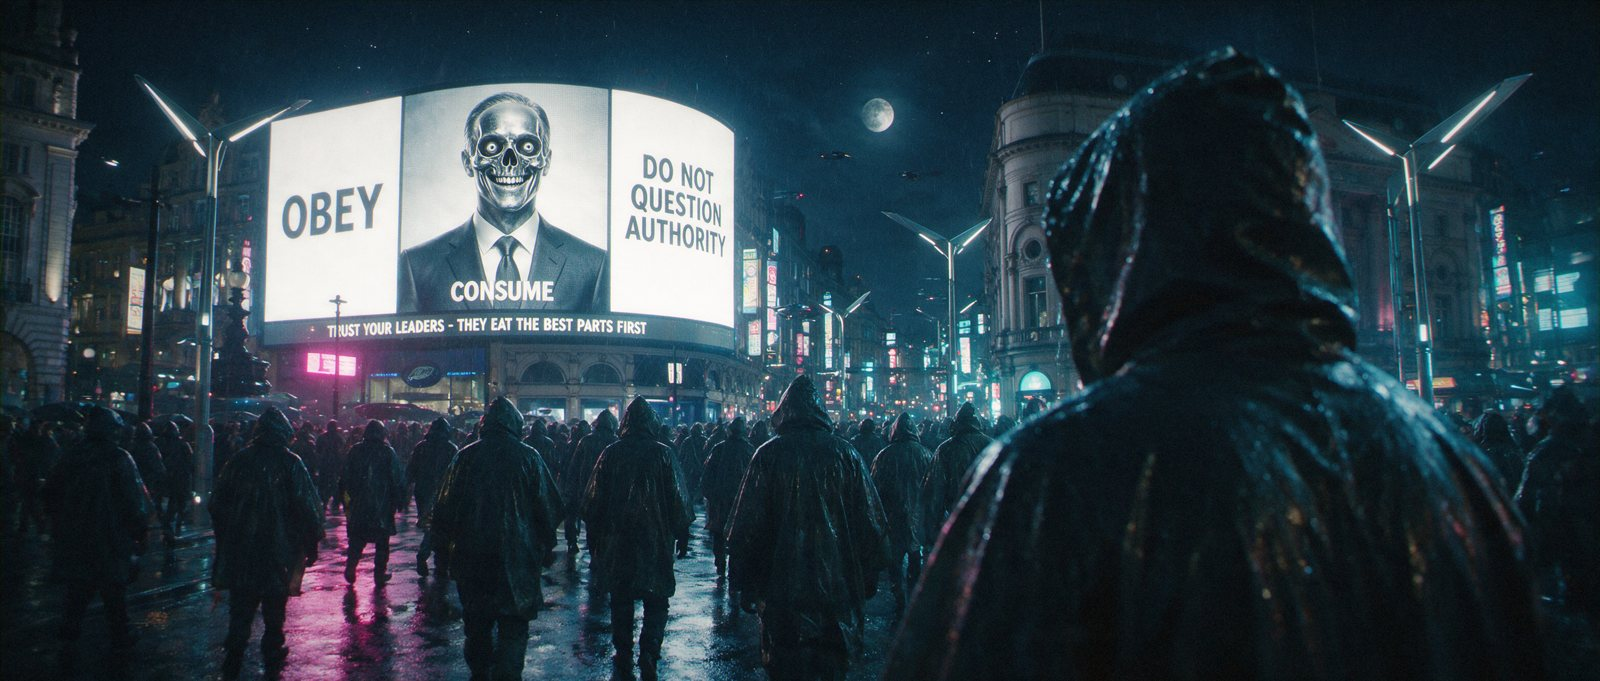
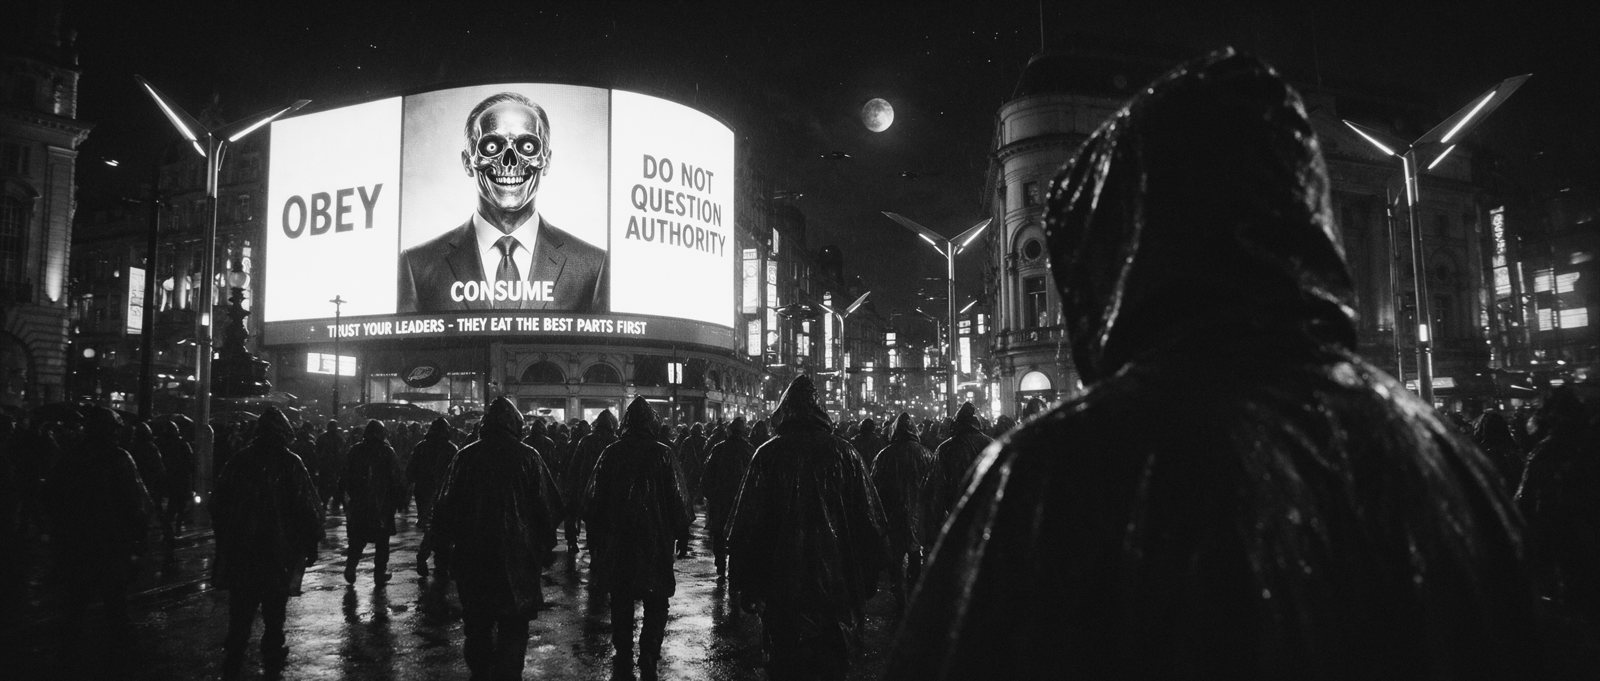
They Live: glasses-on frame in black and white

diff --git a/index.html b/index.html
@@ -466,7 +466,7 @@
     <p class="spec-note">Key frames for my own script reboot of the 1988 film. These frames come from a locked recipe: a five-block prompt structure, motivated light and a documentary grade, applied the same way to every frame so the look repeats.</p>
     <div class="grid" style="margin-bottom:28px">
       <figure><img class="wide" src="media/genai/tl-piccadilly-normal.jpg" alt="Piccadilly Circus at night in heavy rain, a hooded crowd beneath the curved advertising screens, a full moon overhead" width="1600" height="681" loading="lazy"><figcaption><span class="mono">Seedream 5.0 Pro · custom grade</span><b>Piccadilly Circus, glasses off</b><span>Real London bones with future street furniture bolted on. Each panel of the screens is specified in the prompt, and every warm patch traces back to a visible sign.</span></figcaption></figure>
-      <figure><img class="wide" src="media/genai/tl-piccadilly-glasses.jpg" alt="The same Piccadilly frame with the glasses on: the screens read OBEY, CONSUME and DO NOT QUESTION AUTHORITY, an alien face at the centre" width="1600" height="681" loading="lazy"><figcaption><span class="mono">Seedream 5.0 Pro · same street, glasses on</span><b>Piccadilly Circus, glasses on</b><span>The same street with the truth showing: the ads become the aliens' commands. The crowd, rain and lighting are held between the two frames so the switch reads instantly.</span></figcaption></figure>
+      <figure><img class="wide" src="media/genai/tl-piccadilly-glasses.jpg" alt="The same Piccadilly frame in black and white with the glasses on: the screens read OBEY, CONSUME and DO NOT QUESTION AUTHORITY, an alien face at the centre" width="1600" height="681" loading="lazy"><figcaption><span class="mono">Derived from the colour master · B&amp;W</span><b>Piccadilly Circus, glasses on</b><span>The same street with the truth showing, in stark black and white: the ads become the aliens' commands. The crowd, rain and framing are held between the two frames so the switch reads instantly.</span></figcaption></figure>
     </div>
     <div class="grid">
       <figure><img class="wide" src="media/genai/tl-glasses.jpg" alt="Product hero: dark sunglasses on a dusty table under a single shaft of light" width="1600" height="681" loading="lazy"><figcaption><span class="mono">Seedream 5.0 Pro · product hero</span><b>The prop as product</b><span>The film's key object, shot as a premium product still with one hard source and real dust.</span></figcaption></figure>
